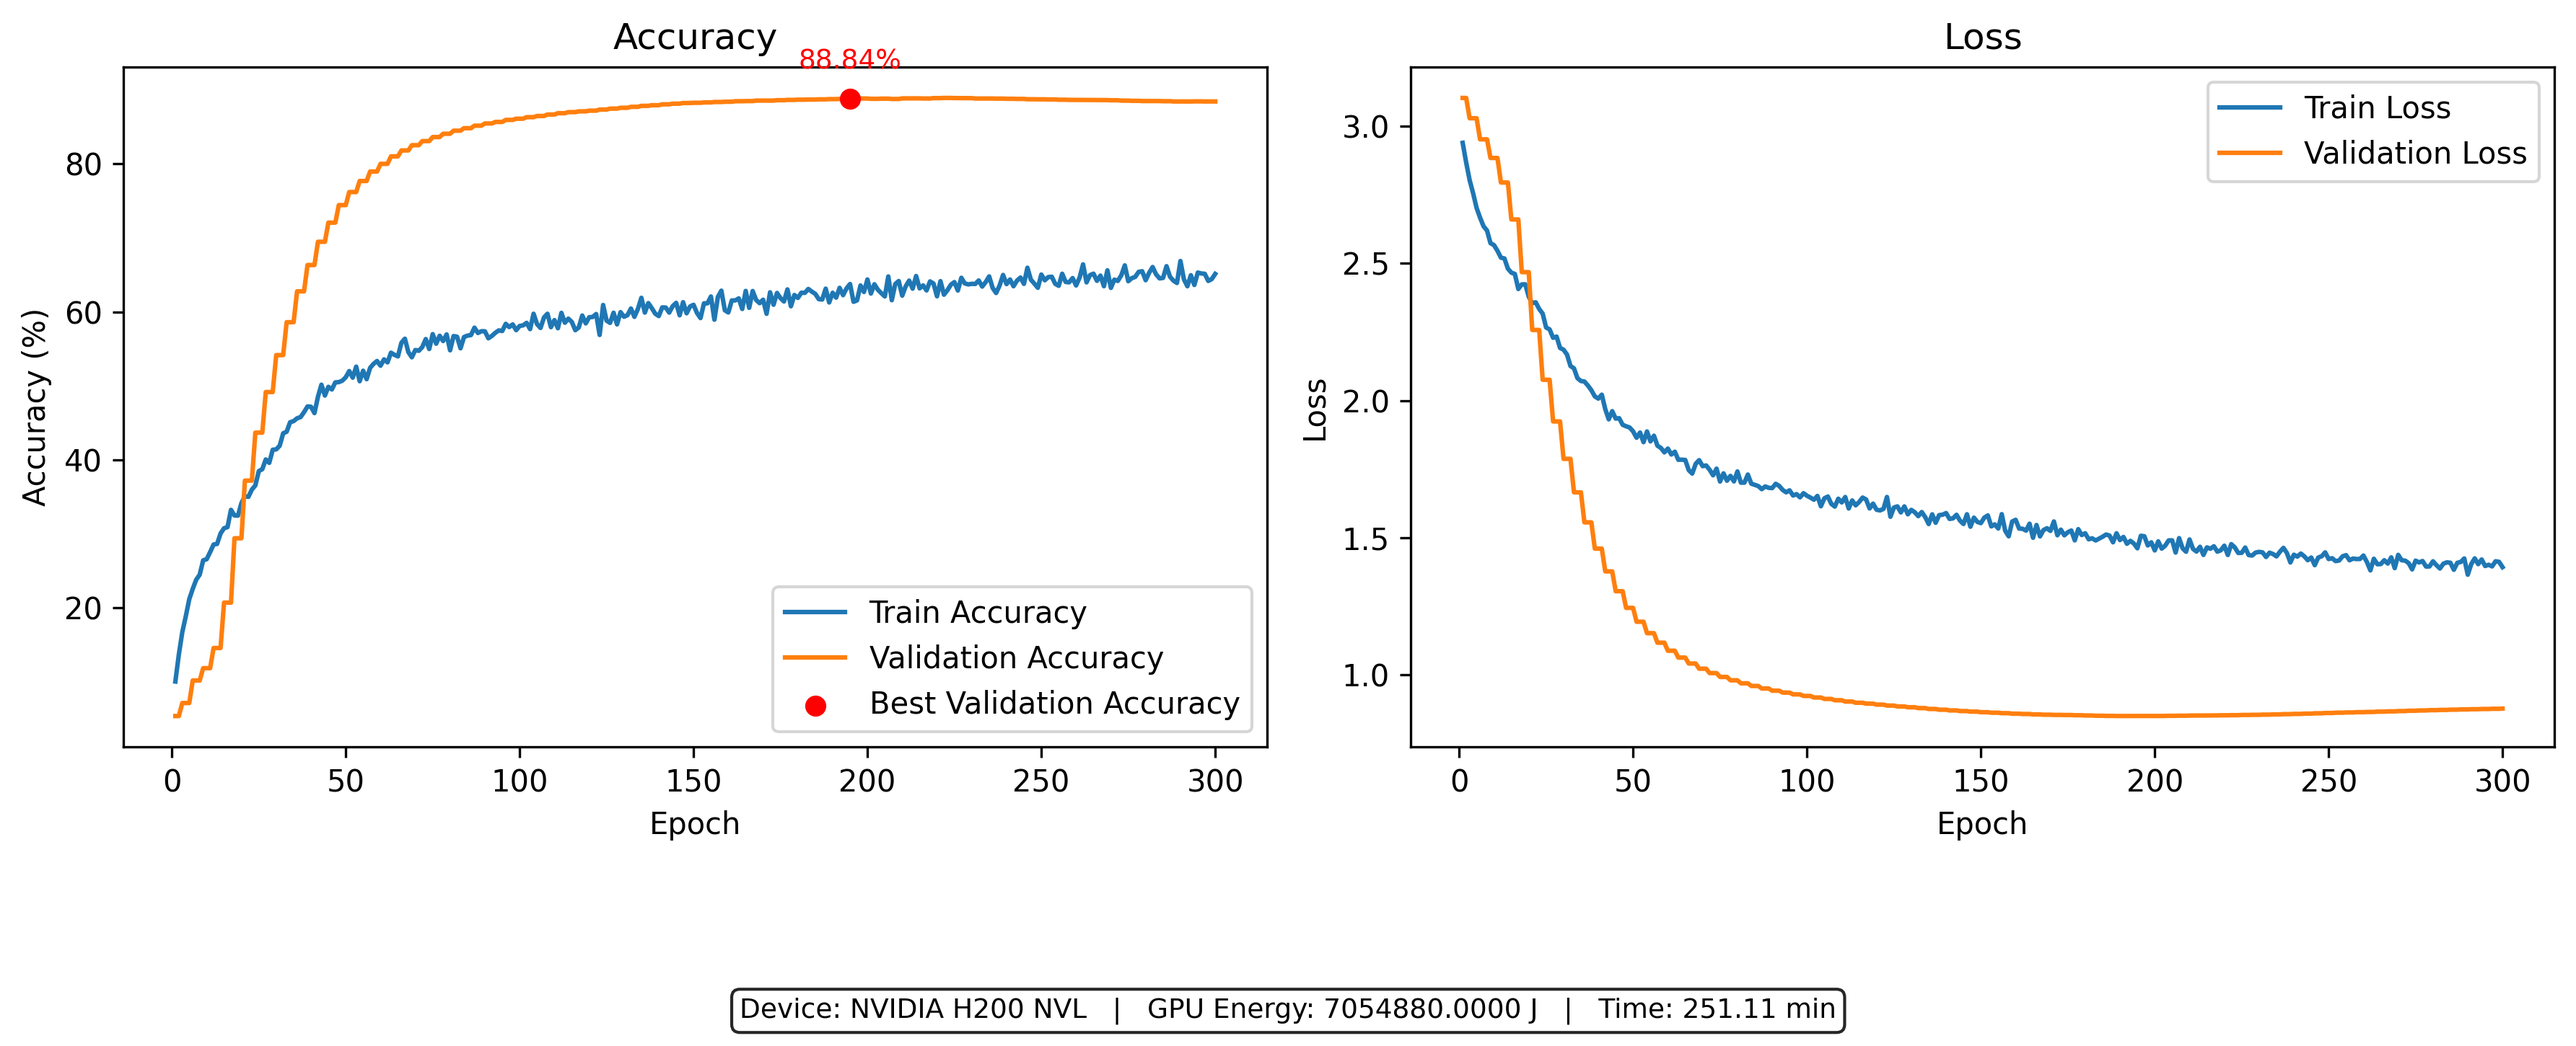
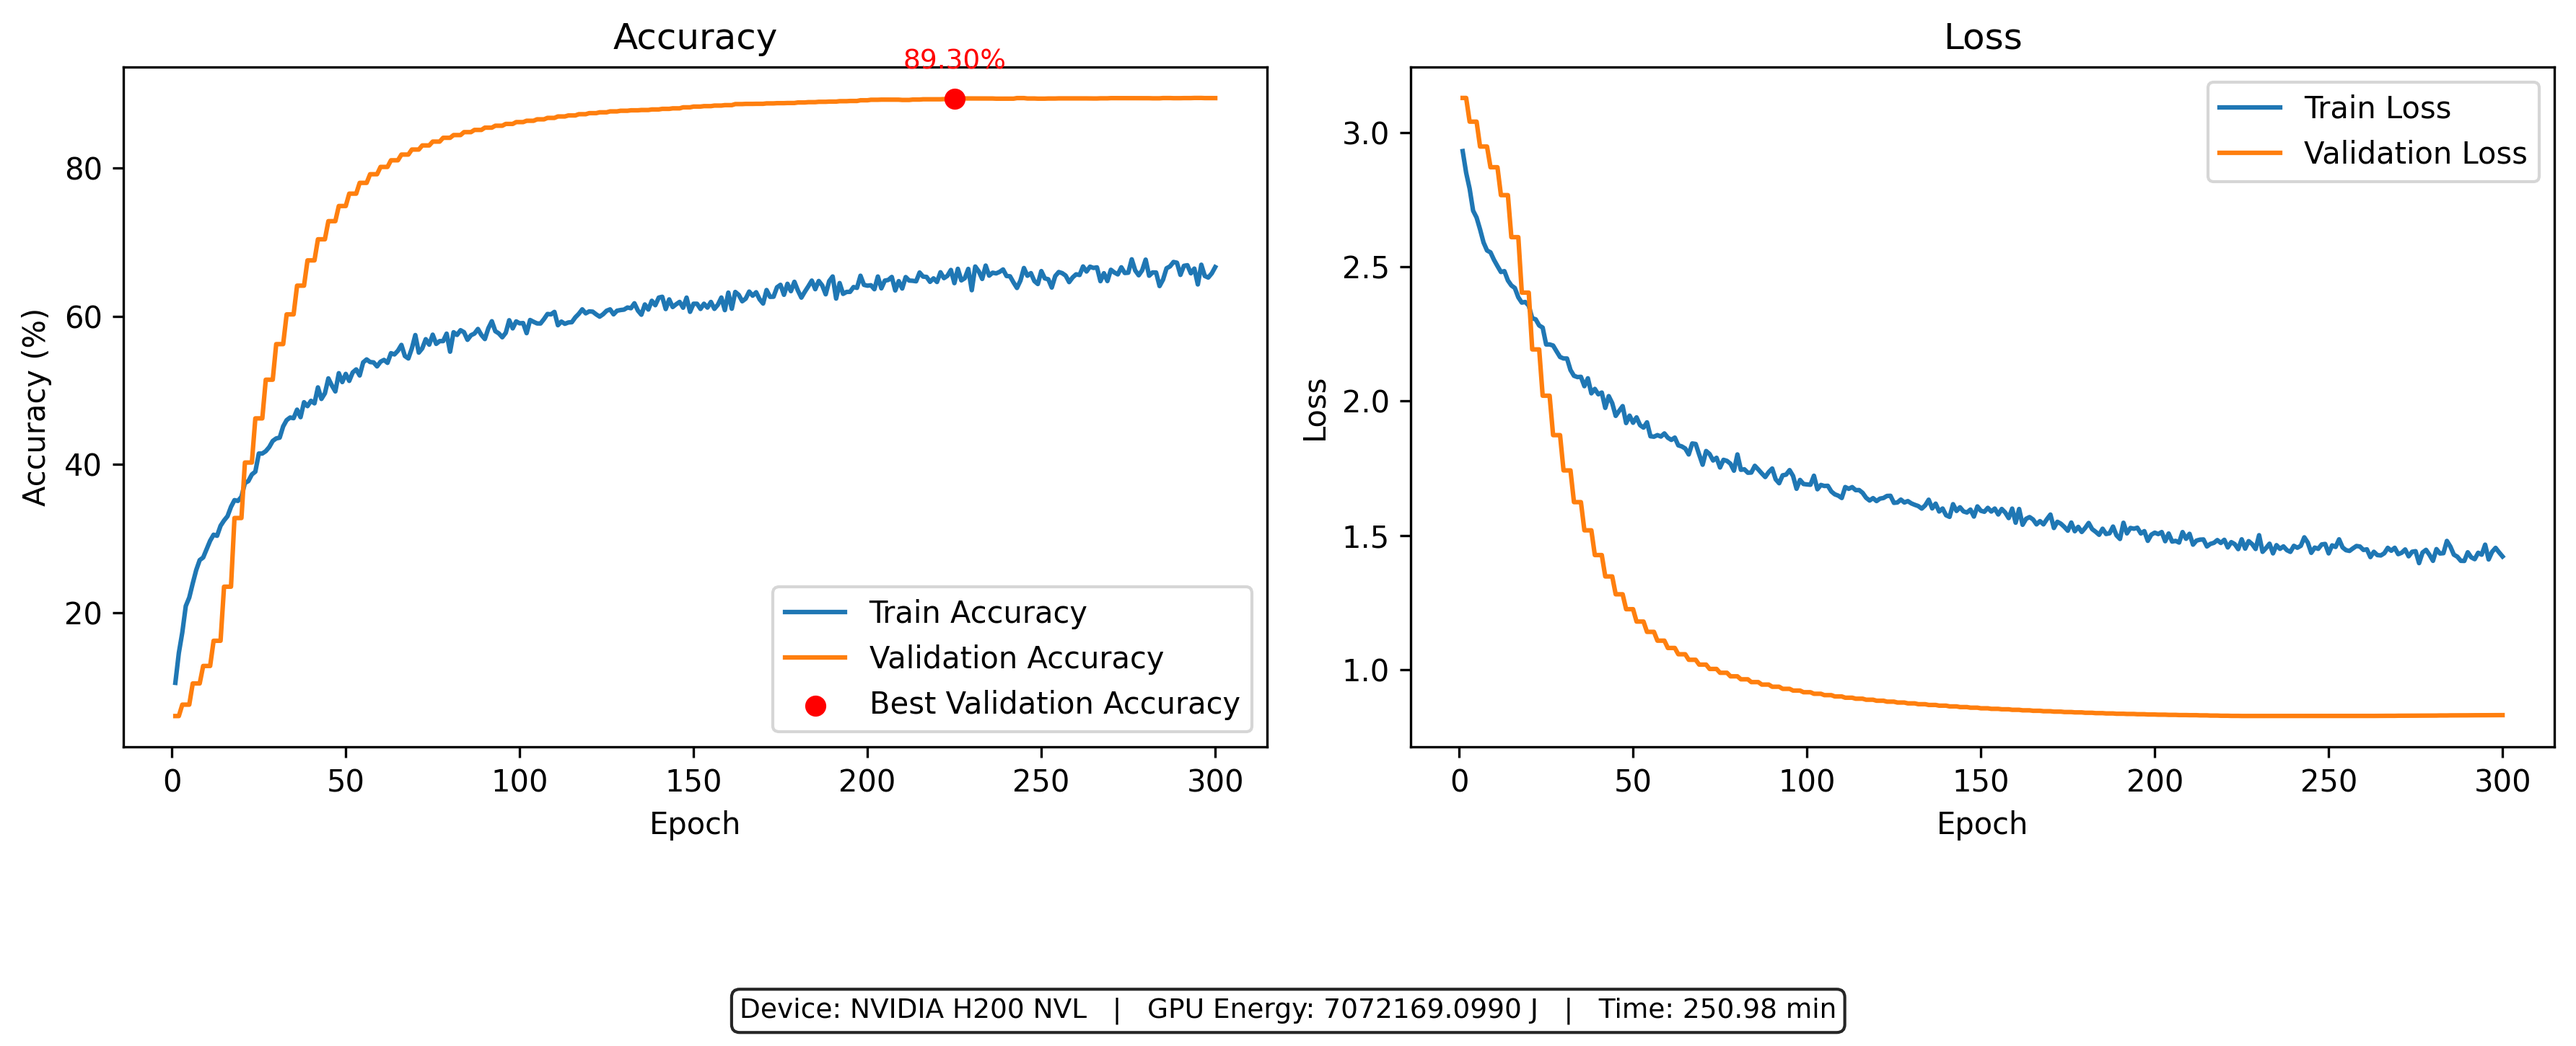
TFG terminado.

diff --git a/src/ViTB16/visualization/training_plotter.py b/src/ViTB16/visualization/training_plotter.py
@@ -68,9 +68,10 @@ class TrainingPlotter:
         self._plot_loss(axes[1], epochs)
 
         if energy_stats is not None:
+            fig.tight_layout(rect=[0, 0.18, 1, 1])
             self._add_energy_text(fig, energy_stats, device_info)
-
-        fig.tight_layout()
+        else:
+            fig.tight_layout()
 
         if save_path is not None:
             output_path = Path(save_path)
@@ -104,7 +105,7 @@ class TrainingPlotter:
 
         axis.set_title("Accuracy")
         axis.set_xlabel("Epoch")
-        axis.set_ylabel("Accuracy")
+        axis.set_ylabel("Accuracy (%)")
         axis.legend()
 
     def _plot_loss(self, axis, epochs: List[int]) -> None:
@@ -123,22 +124,23 @@ class TrainingPlotter:
         device_info: Optional[str],
     ) -> None:
         """Add energy and device information to the figure."""
-        gpu_joules, cpu_joules, elapsed_seconds = self._extract_energy_stats(energy_stats)
+        gpu_joules, _cpu_joules, elapsed_seconds = self._extract_energy_stats(energy_stats)
         total_joules = gpu_joules + cpu_joules
 
         text = (
-            f"Device: {device_info or 'Unknown'}\n"
-            f"GPU Energy: {gpu_joules:.4f} J\n"
-            f"CPU Energy: {cpu_joules:.4f} J\n"
-            f"Total Energy: {total_joules:.4f} J\n"
-            f"Time: {elapsed_seconds / 60:.2f} min"
+            "Device: {}   |   GPU Energy: {:.4f} J   |   Time: {:.2f} min"
+        ).format(
+            device_info or "Unknown",
+            gpu_joules,
+            elapsed_seconds / 60,
         )
 
         figure.text(
-            0.02,
-            0.02,
+            0.5,
+            0.04,
             text,
             fontsize=9,
+            ha="center",
             verticalalignment="bottom",
             bbox={"boxstyle": "round", "facecolor": "white", "alpha": 0.85},
         )

diff --git a/src/RestNet/visualization/training_plotter.py b/src/RestNet/visualization/training_plotter.py
@@ -68,9 +68,11 @@ class TrainingPlotter:
         self._plot_loss(axes[1], epochs)
 
         if energy_stats is not None:
+            fig.tight_layout(rect=[0, 0.18, 1, 1])
             self._add_energy_text(fig, energy_stats, device_info)
+        else:
+            fig.tight_layout()
 
-        fig.tight_layout()
 
         if save_path is not None:
             output_path = Path(save_path)
@@ -104,7 +106,7 @@ class TrainingPlotter:
 
         axis.set_title("Accuracy")
         axis.set_xlabel("Epoch")
-        axis.set_ylabel("Accuracy")
+        axis.set_ylabel("Accuracy (%)")
         axis.legend()
 
     def _plot_loss(self, axis, epochs: t.List[int]) -> None:
@@ -123,28 +125,22 @@ class TrainingPlotter:
         device_info: t.Optional[str],
     ) -> None:
         """Add energy and device information to the figure."""
-        gpu_joules, cpu_joules, elapsed_seconds = self._extract_energy_stats(energy_stats)
-        total_joules = gpu_joules + cpu_joules
+        gpu_joules, _cpu_joules, elapsed_seconds = self._extract_energy_stats(energy_stats)
 
         text = (
-            "Device: {}\n"
-            "GPU Energy: {:.4f} J\n"
-            "CPU Energy: {:.4f} J\n"
-            "Total Energy: {:.4f} J\n"
-            "Time: {:.2f} min"
+            "Device: {}   |   GPU Energy: {:.4f} J   |   Time: {:.2f} min"
         ).format(
             device_info or "Unknown",
             gpu_joules,
-            cpu_joules,
-            total_joules,
             elapsed_seconds / 60,
         )
 
         figure.text(
-            0.02,
-            0.02,
+            0.5,
+            0.04,
             text,
             fontsize=9,
+            ha="center",
             verticalalignment="bottom",
             bbox={"boxstyle": "round", "facecolor": "white", "alpha": 0.85},
         )

diff --git a/src/ViTB16/training/config.py b/src/ViTB16/training/config.py
@@ -22,7 +22,7 @@ from pathlib import Path
 class TransformerTrainingConfig:
     """Store all hyperparameters and paths used during training."""
 
-    root_dir: str = "/var/tmp/nhernang/dataset_256"
+    root_dir: str = "/home/almeida/Cristobal/Images/dataset_256"
     train_batch_size: int = 128
     val_batch_size: int = 128
     epochs: int = 200

diff --git a/src/RestNet/training/config.py b/src/RestNet/training/config.py
@@ -23,7 +23,7 @@ from pathlib import Path
 class ResNetTrainingConfig:
     """Store all hyperparameters and paths used during training."""
 
-    root_dir: str = "/var/tmp/nhernang/dataset_256"
+    root_dir: str = "/home/almeida/Cristobal/Images/dataset_256"
     train_batch_size: int = 128
     val_batch_size: int = 128
     epochs: int = 200
